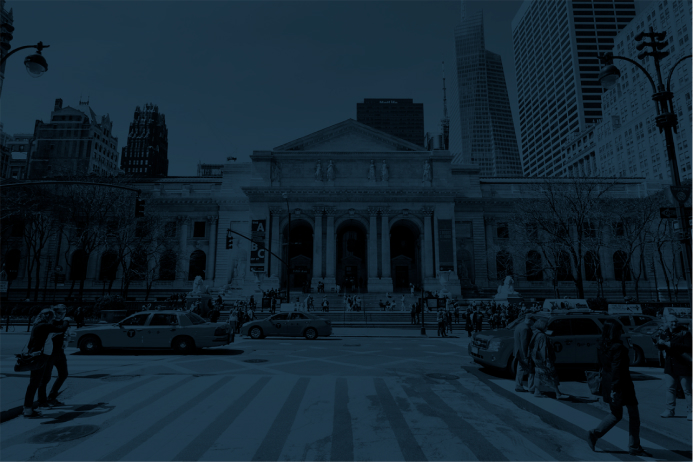
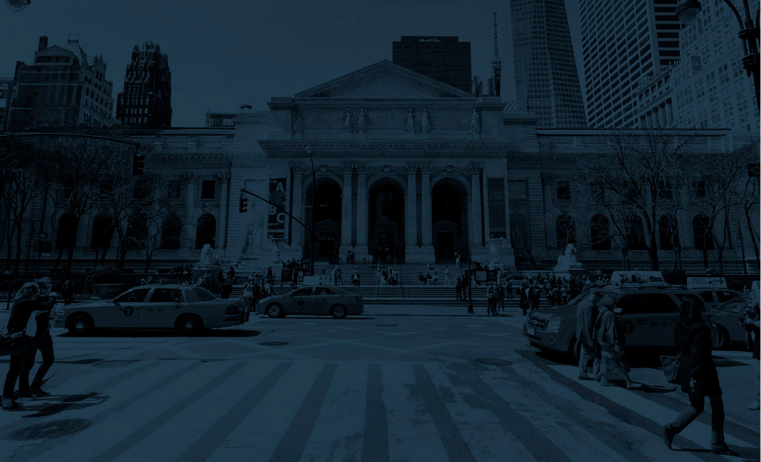
updated styles
Добавил картинки фоновые и иконки
Стили базовые для первого блока и шапки

diff --git a/source/index.html b/source/index.html
@@ -100,11 +100,11 @@
         <figure class="hero__images">
           <picture>
             <source type="image/webp" media="(min-width: 1200px)"
-              srcset="./img/hero/descktop.webp 1x, ./img/hero/descktop@2x.webp 2x">
+              srcset="./img/hero/desktop.webp 1x, ./img/hero/desktop@2x.webp 2x">
             <source type="image/webp" media="(min-width: 660px)"
               srcset="./img/hero/tablet@2x.webp 1x, ./img/hero/tablet@2x.webp 2x">
             <source type="image/webp" srcset="./img/hero/mobile.webp 1x, ./img/hero/mobile@2x.webp 2x">
-            <source media="(min-width: 1200px)" srcset="./img/hero/descktop.png 1x, ./img/hero/descktop@2x.png 2x">
+            <source media="(min-width: 1200px)" srcset="./img/hero/desktop.png 1x, ./img/hero/desktop@2x.png 2x">
             <source media="(min-width: 660px)" srcset="./img/hero/tablet.png 1x, ./img/hero/tablet@2x.png 2x">
             <img class="hero__image" src="./img/hero/mobile.png" srcset="./img/hero/mobile@2x.png 2x"
               alt="Приложение Pink на экране смартфона">
@@ -151,12 +151,12 @@
       <p class="features__text title">Нам есть, что вам предложить!</p>
 
       <ul class="features__list">
-        <li class="features__item">
+        <li class="features__item features__item--mood">
           <h3 class="features__slogan">Поднимает настроение</h3>
           <p class="features__description">Приложение позволит вам победить осеннюю хандру и депрессию буквально в
             несколько кликов!</p>
         </li>
-        <li class="features__item">
+        <li class="features__item features__item--pink">
           <h3 class="features__slogan">Меняет мир вокруг</h3>
           <p class="features__description">Сделайте снимок и украсьте его смайликом или текстовой подписью, чтобы
             усилить эффект</p>

diff --git a/source/sass/blocks/hero.scss b/source/sass/blocks/hero.scss
@@ -1,13 +1,39 @@
 .hero {
   color: $font-color-inverted;
-  background-color: $bg-color-header;
+  background-color: $bg-color-hero;
 
   background-image: url("../img/backgrounds/hero-mobile.webp");
   background-repeat: no-repeat;
   background-size: auto 462px;
-  background-position: center;
+  background-position: center top;
 
   @media (min-resolution: 2dppx) {
     background-image: url("../img/backgrounds/hero-mobile@2x.webp");
+  }
+
+  @media (min-width: $min-tablet) {
+    background-image: url("../img/backgrounds/hero-tablet.webp");
+    background-size: auto 729px;
+
+    @media (min-resolution: 2dppx) {
+      background-image: url("../img/backgrounds/hero-tablet@2x.webp");
+    }
+  }
+
+  @media (min-width: $min-desktop) {
+    background-image: url("../img/backgrounds/hero-desktop.webp");
+    background-size: auto;
+
+    @media (min-resolution: 2dppx) {
+      background-image: url("../img/backgrounds/hero-desktop@2x.webp");
+    }
+  }
+}
+
+.hero__wrapper {
+  padding-top: 66px;
+
+  @media (min-width: $min-tablet) {
+    padding-top: 110pxpx;
   }
 }

diff --git a/source/sass/blocks/page-header.scss b/source/sass/blocks/page-header.scss
@@ -1,17 +1,23 @@
 //Блок шапки сайта
 //Тут задавать стили внешнего представления этого блока
 .page-header {
-  position: relative;
-  width: 100%;
   background-color: $bg-color-header;
 }
 
-.page-header__logo {
-  margin: 0;
+.page-header__navigation {
+  padding: 21px 20px;
+  background-color: inherit;
 }
 
-.page-header__navigation {
-  background-color: inherit;
+.page-header__bar {
+  display: flex;
+  justify-content: space-between;
+}
+
+.page-header__logo {
+  width: 74px;
+  height: 23px;
+  margin: 0;
 }
 
 .page-header__toggler {
@@ -20,10 +26,11 @@
   justify-content: center;
   width: 50px;
   height: 24px;
+  padding: 0;
   background: none;
   border: none;
 
-  @media (min-width: $min-tablet) {
+  @media (min-width: $min-desktop) {
     display: none;
   }
 }
@@ -31,7 +38,7 @@
 .page-header__menu {
   display: none;
 
-  @media (min-width: $min-tablet) {
+  @media (min-width: $min-desktop) {
     display: flex;
     width: 100%;
   }

diff --git a/source/sass/blocks/main-page.scss b/source/sass/blocks/main-page.scss
@@ -1,7 +1,15 @@
 .main-page {}
 
 .main-page__header {
-  @media (min-width: $min-desktop) {}
+  min-height: 733px;
+
+  @media (min-width: $min-tablet) {
+    min-height: 729px;
+  }
+
+  @media (min-width: $min-desktop) {
+    min-height: 853px;
+  }
 }
 
 .main-page__title {

diff --git a/source/sass/global/variables.scss b/source/sass/global/variables.scss
@@ -17,7 +17,8 @@ $font-title-desktop: 50px;
 //Фон
 $bg-color-primary: #ffffff;
 $bg-color-secondary: #f2f2f2;
-$bg-color-header: #1d2631;
+$bg-color-header: rgba(29, 38, 49, 0.3);
+$bg-color-hero: #1D2631;
 
 // Кнопки
 $button-color-primary: #2aab6d;

diff --git a/source/sass/blocks/burger.scss b/source/sass/blocks/burger.scss
@@ -32,12 +32,14 @@
   &--opened::before {
     width: 24px;
     top: 0;
+    left: 11px;
     transform: rotateZ(405deg);
   }
 
   &--opened::after {
     width: 24px;
     bottom: 0;
+    left: 11px;
     transform: rotateZ(315deg);
   }
 

diff --git a/source/sass/blocks/page.scss b/source/sass/blocks/page.scss
@@ -18,8 +18,11 @@
 }
 
 .page__header {
-  min-height: 90px;
-  color: $font-color;
+  position: absolute;
+  top: 0;
+  left: 0;
+  right: 0;
+  color: $font-color-inverted;
 }
 
 .page__footer {

diff --git a/source/sass/blocks/page-footer.scss b/source/sass/blocks/page-footer.scss
@@ -9,6 +9,8 @@
 }
 
 .page-footer__logo {
+  width: 145px;
+  height: 40px;
   margin-bottom: 20px;
 
   @media (min-width: $min-tablet) {}
